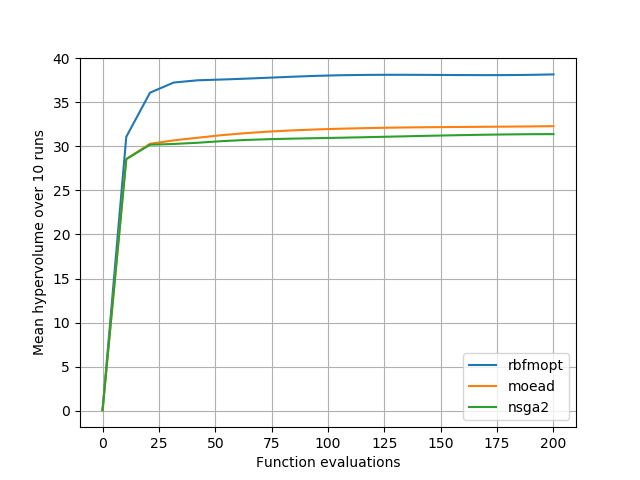
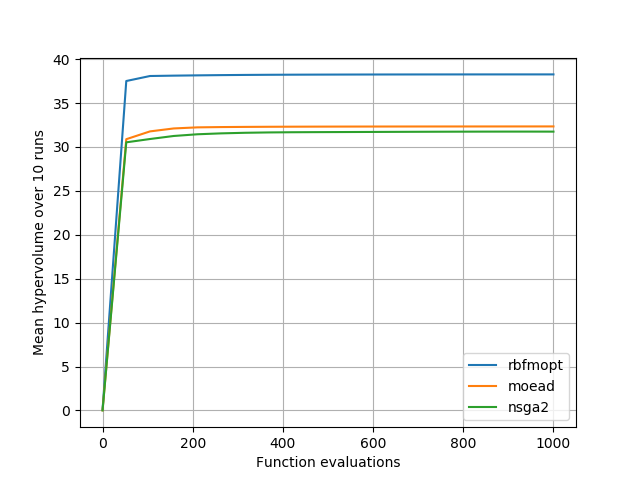
Change seed every n times meta-heuristics are run (when calculating the mean). Tidied up comments, removed unnecessary code.

diff --git a/utils/pygmo_utils.py b/utils/pygmo_utils.py
@@ -3,7 +3,6 @@ import math as math
 import numpy as numpy
 from scipy.interpolate import UnivariateSpline
 
-#Plots
 def plot_spline(plt, x_plot, y_plot, max_fevals, label):
     spline = UnivariateSpline(x_plot, y_plot, s=5)
 
@@ -11,7 +10,7 @@ def plot_spline(plt, x_plot, y_plot, max_fevals, label):
     spline = spline(spline_x)
     plt.plot(spline_x, spline, label=label)
 
-#Weighted Objective Function (Augmented Chebyshev)
+# Weighted Objective Function (Augmented Chebyshev)
 def calculate_weighted_objective(weights, values, rho):
     weighted_vals = [value * weight for value, weight in zip(values,weights)] 
     aug_tcheby = max(weighted_vals) + rho * sum(weighted_vals)
@@ -33,7 +32,7 @@ def reconstruct_hv_per_feval(max_fevals, x_list, f_list, hv_pop):
     return hv
 
 # Calculates the hypervolume with all the old points from the old generations
-# But starts with a full population
+# But starts with a full population. Used for the meta-heuristic algorithms
 def reconstruct_hv_per_feval_meta(max_fevals, x_list, f_list, hv_pop):
     # Have the same ref point at the beginning, and compute the starting hypervolume
     original_hv = pg.hypervolume(hv_pop)
@@ -69,6 +68,22 @@ def get_hv_for_algo(algo, max_fevals, pop_size, seed, problem):
 
     return reconstruct_hv_per_feval(max_fevals, x_list, f_list, pop_empty)
 
+# Meta-heuristic algorithms are stochastic and need to be run many times.
+# Calculates the hypervolume n times, and then gets the mean across columns
+# to give a 1D mean array
+def calculate_mean(n, algo, max_fevals, pop_size, seed, problem):
+
+    # 2D array whose elements are the n arrays of hypervolume
+    return_array = []
+    for i in range(n):
+        return_array.append(get_hv_for_algo(algo, max_fevals, pop_size, seed, problem))
+        # Make sure we change the seed each time the algo is being run
+        seed += i
+    return numpy.mean(return_array, axis=0)
+
+
+#The following algorithms are used for the single objective pygmo algorithms
+
 # Calculates the hypervolume with all the old points from the old generations
 def reconstruct_champion_per_feval(max_fevals, x_list, f_list, pop):
     # Have the same ref point at the beginning, and compute the starting hypervolume
@@ -100,13 +115,3 @@ def get_champion_for_algo(algo, max_fevals, pop_size, seed, problem):
     pop_original = pg.population(problem, pop_size, seed)
 
     return reconstruct_champion_per_feval(max_fevals, x_list, f_list, pop_original)
-
-# Calculates the hypervolume n times, and then gets the mean across columns
-# to give a 1D mean array
-def calculate_mean(n, algo, max_fevals, pop_size, seed, problem, fun):
-
-    # 2D array whose elements are the n arrays of hypervolume
-    return_array = []
-    for i in range(n):
-        return_array.append(fun(algo, max_fevals, pop_size, seed, problem))
-    return numpy.mean(return_array, axis=0)

diff --git a/benchmark_multi.py b/benchmark_multi.py
@@ -6,9 +6,9 @@ from scipy.interpolate import UnivariateSpline
 from utils.pygmo_utils import calculate_mean, get_hv_for_algo, reconstruct_hv_per_feval, plot_spline
 from classes.RbfmoptWrapper import RbfmoptWrapper
 
-# where n is the number of times the algorithm is run to get the mean
+# where n is the number of times the meta-heuristic algorithms are run to get the mean
 n = 10
-max_fevals = 200
+max_fevals = 100
 # To account for the fact that the zero index array in util functions
 # are actually the 1st feval
 working_fevals = max_fevals-1
@@ -17,19 +17,16 @@ seed = 33
 problem = pg.problem(pg.problems.dtlz(2, dim=6, fdim=2))
 algo_moead = pg.algorithm(pg.moead(gen=1))
 algo_nsga2 = pg.algorithm(pg.nsga2(gen=1))
-
 algo_rbfmopt = RbfmoptWrapper(max_fevals, problem)
+
+# RBFMopt hypervolume calculations
 algo_rbfmopt.evolve()
 empty_pop = pg.population(prob=problem, seed=seed)
 hv_rbfmopt_plot = reconstruct_hv_per_feval(working_fevals, algo_rbfmopt.get_x_list(), algo_rbfmopt.get_f_list(), empty_pop) 
 
-pop = pg.population(problem, pop_size, seed)
-original_hv = pg.hypervolume(pop)
-ref = original_hv.refpoint(offset=4.0)
-hv = original_hv.compute(ref)
-
-hv_moead_plot = calculate_mean(n, algo_moead, working_fevals, pop_size, seed, problem, get_hv_for_algo)
-hv_nsga2_plot = calculate_mean(n, algo_nsga2, working_fevals, pop_size, seed, problem, get_hv_for_algo)
+# Meta-heuristics hypervolume calculations, mean taken over n number of times
+hv_moead_plot = calculate_mean(n, algo_moead, working_fevals, pop_size, seed, problem)
+hv_nsga2_plot = calculate_mean(n, algo_nsga2, working_fevals, pop_size, seed, problem)
 fevals_plot = range(0, max_fevals)
 
 fig, ax = plt.subplots()
@@ -42,5 +39,5 @@ plt.legend(loc='best')
 plt.xlabel('Function evaluations')
 plt.ylabel('Mean hypervolume over '+str(n)+' runs')
 plt.grid()
-plt.savefig("/Users/rogerko/dev/Opossum/pygmo/graphics/Benchmark_Multi.png")
+plt.savefig("/Users/rogerko/dev/Opossum/pygmo/graphics/Benchmark_Multi2.png")
 plt.show()
